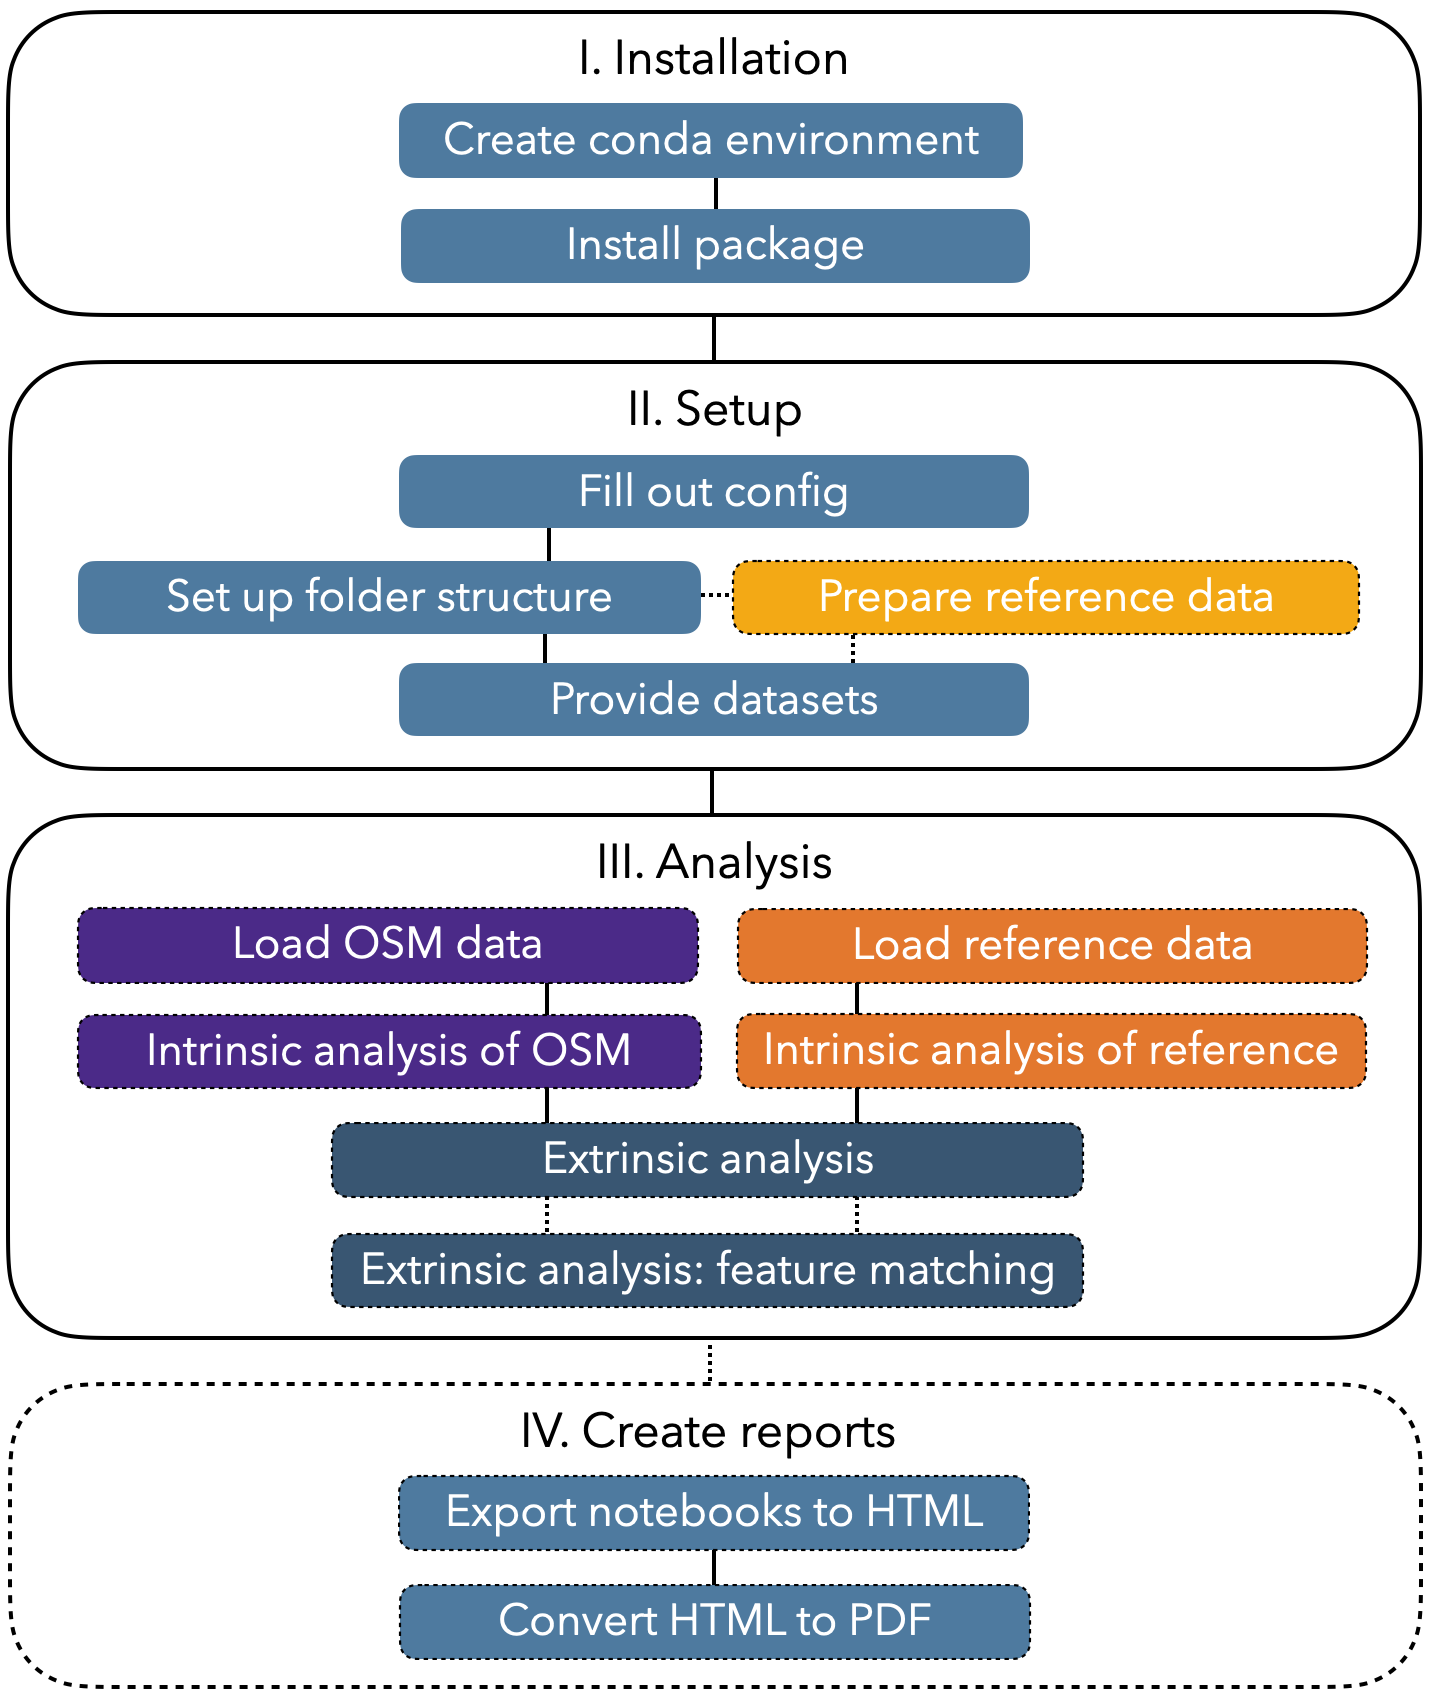
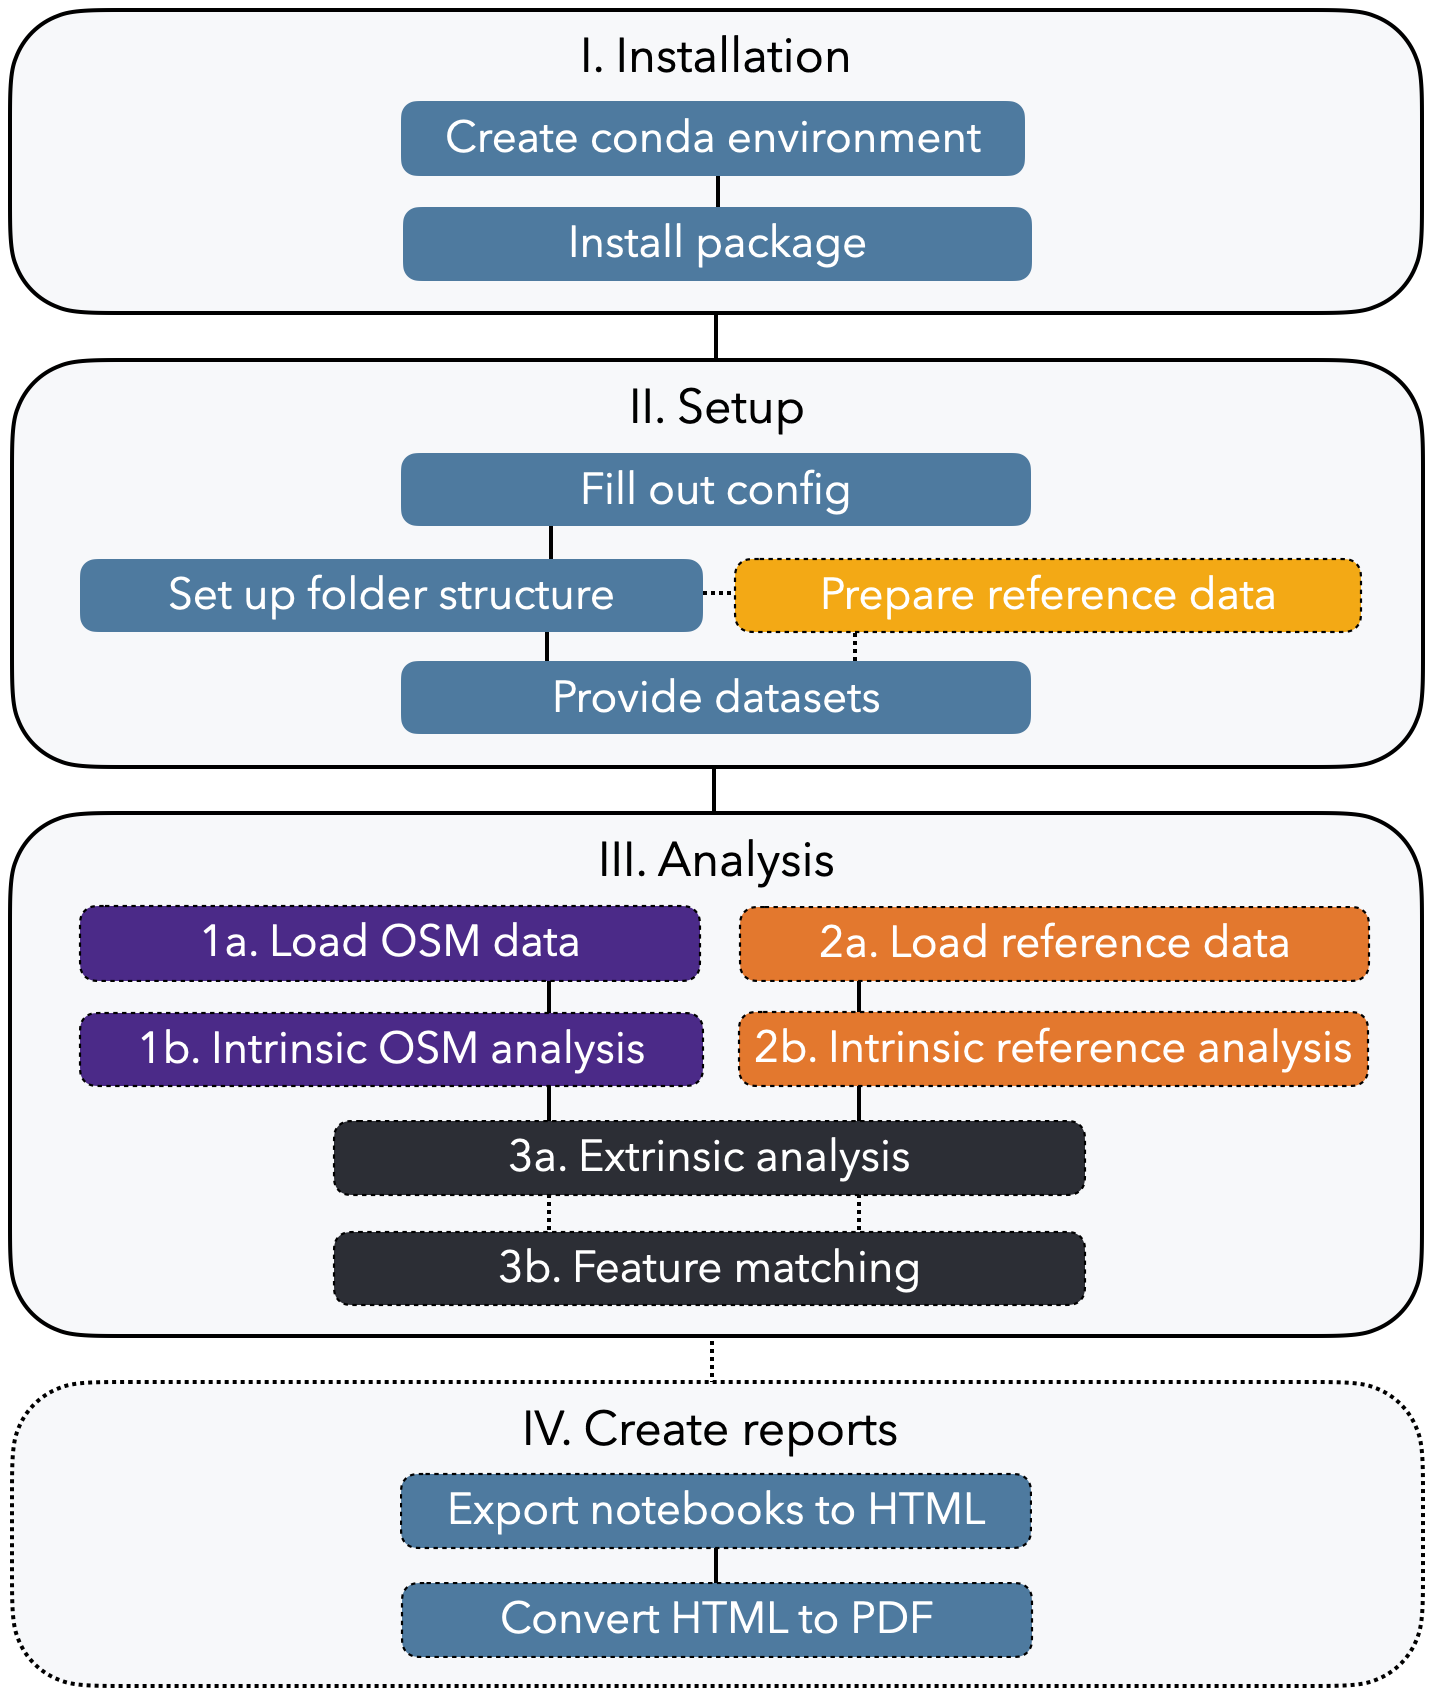
improved structure
3,4 -> 3a,3b

diff --git a/README.md b/README.md
@@ -123,15 +123,15 @@ All analysis notebooks are in the [`scripts`](scripts) folder.
 
 #### COMPARE
 
-- **[`3_extrinsic_analysis_metrics`](https://github.com/anerv/cycling_data_quality/blob/main/scripts/COMPARE/03a_extrinsic_analysis_metrics.ipynb):** The extrinsic analysis compares the results computed in the intrinsic analysis of the OSM and reference data. The analysis considers for example differences in network density and structure, and differing connectivity across the study area.
-- **[`4_extrinsic_analysis_feature_matching`](https://github.com/anerv/cycling_data_quality/blob/main/scripts/COMPARE/03b_extrinsic_analysis_feature_matching.ipynb):** This notebook contains a functionality for matching corresponding features in the reference and OSM data. This step is computationally expensive, but provides an excellent overview of different geometries and/or errors of missing or excess data.
+- **[`3a_extrinsic_analysis_metrics`](https://github.com/anerv/cycling_data_quality/blob/main/scripts/COMPARE/3a_extrinsic_analysis_metrics.ipynb):** The extrinsic analysis compares the results computed in the intrinsic analysis of the OSM and reference data. The analysis considers for example differences in network density and structure, and differing connectivity across the study area.
+- **[`3b_extrinsic_analysis_feature_matching`](https://github.com/anerv/cycling_data_quality/blob/main/scripts/COMPARE/3b_extrinsic_analysis_feature_matching.ipynb):** This notebook contains a functionality for matching corresponding features in the reference and OSM data. This step is computationally expensive, but provides an excellent overview of different geometries and/or errors of missing or excess data.
 
 ### Run analysis
 
 After completing all installation and setup steps, the analysis notebooks can be run. The notebooks for intrinsic analysis of OSM and reference data are independent from each other and can be run separately.  
 - For intrinsic analysis of OSM data: run 1a, then 1b from the [`scripts/OSM`](scripts/OSM) folder  
 - For intrinsic analysis of reference data: run 2a, then 2b from the [`scripts/REFERENCE`](scripts/REFERENCE) folder  
-- For an extrinsic analysis comparing OSM to reference data, complete the intrinsic analysis for both OSM and reference data (in any order), and then run 3 and 4 from the [`scripts/COMPARE`](scripts/COMPARE) folder
+- For an extrinsic analysis comparing OSM to reference data, complete the intrinsic analysis for both OSM and reference data (in any order), and then run 3a and 3b from the [`scripts/COMPARE`](scripts/COMPARE) folder
 
 ## IV. Export results
 
@@ -149,7 +149,7 @@ To export the notebooks with explanations and plots but without code, navigate t
 sh export_notebooks2html.sh
 ```
 
-This will export all notebooks (1a, 1b, 2a, 2b, 3, 4) as single html files into the `export/html` folder.
+This will export all notebooks (1a, 1b, 2a, 2b, 3a, 3b) as single html files into the `export/html` folder.
 
 ### Export as PDF
 To convert the html files into pdf, you need to install [playwright](https://playwright.dev/python/docs/intro):
